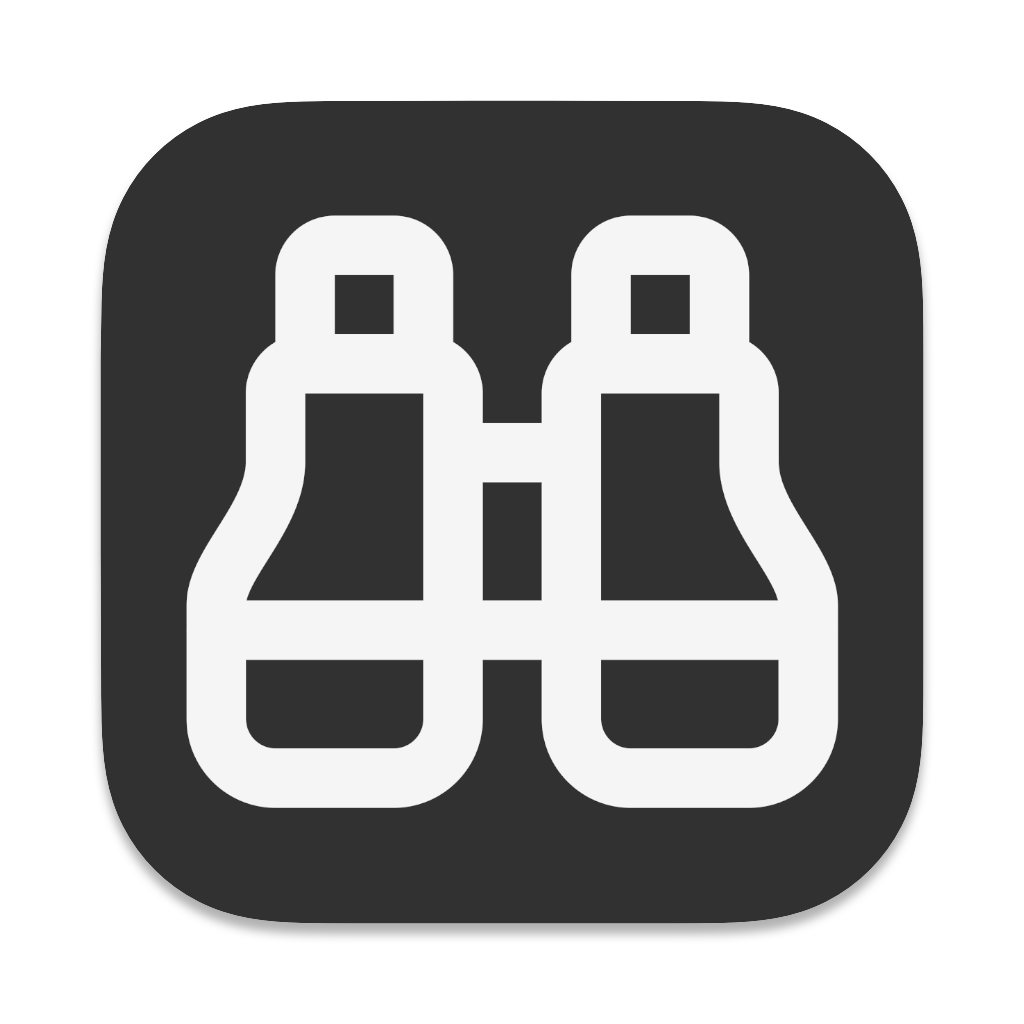
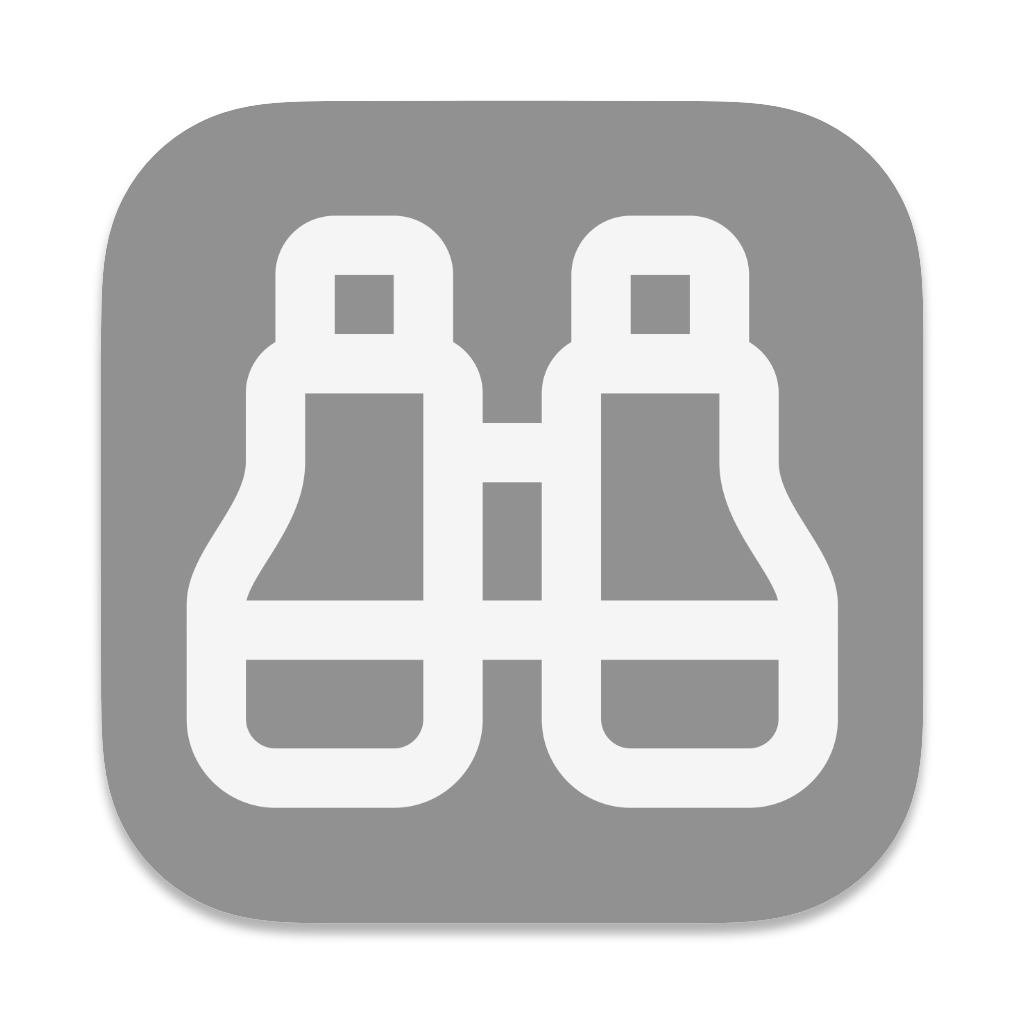
Add theme system with noVNC, noVNC-ARD, and noARD themes
URL param ?theme= selects visual branding (default: novnc).
Theme controls CSS accent colors, logo, favicon, and title
while all ARD protocol features remain available in every theme.

diff --git a/ard.html b/ard.html
@@ -7,6 +7,7 @@
     Uses upstream noVNC as an untouched submodule; ARD extensions
     are applied via monkey-patching in ard/ard-patch.js.
     -->
+    <meta charset="utf-8">
     <title>noVNC-ARD</title>
 
     <link rel="icon" type="image/x-icon" href="ard/images/noARD.ico">
@@ -84,6 +85,67 @@
         const showArdQuality       = _ardToggle('showArdQuality',       true);
         const showArdDisplaySelect = _ardToggle('showArdDisplaySelect', true);
         const ardAutoSelectDisplay = _ardToggle('ardAutoSelectDisplay', true);
+        // ── Theme system ──────────────────────────────────
+        // ?theme=novnc (default), ?theme=novnc-ard, ?theme=noard (case-insensitive)
+        const _ardThemes = {
+            'novnc-ard': {
+                title: 'noVNC-ARD',
+                favicon: 'ard/images/noARD.ico',
+                cssVars: {
+                    '--novnc-blue': 'rgb(130, 130, 130)',
+                    '--novnc-darkblue': 'rgb(100, 100, 100)',
+                },
+                cssClass: 'noVNC_theme_ard',
+                toolbarLogo: '<input type="image" alt="noVNC-ARD" src="ard/images/binoculars.svg"'
+                    + ' class="noVNC_button" id="noVNC_ard_logo"'
+                    + ' style="pointer-events:none; opacity:0.8; padding:4px;'
+                    + ' background-color:rgb(145,145,145); border-radius:6px">',
+                connectLogo: '<span>n<i class="noVNC_logo_o">'
+                    + '<img alt="" src="ard/images/binoculars.svg"></i></span>VNC',
+                connectButtonHTML: 'Connect',
+            },
+            'noard': {
+                title: 'noARD',
+                favicon: 'ard/images/noARD.ico',
+                cssVars: {
+                    '--novnc-blue': 'rgb(130, 130, 130)',
+                    '--novnc-darkblue': 'rgb(100, 100, 100)',
+                },
+                cssClass: 'noVNC_theme_ard',
+                toolbarLogo: '<input type="image" alt="noARD" src="ard/images/binoculars.svg"'
+                    + ' class="noVNC_button" id="noVNC_ard_logo"'
+                    + ' style="pointer-events:none; padding:4px;'
+                    + ' background-color:rgb(145,145,145); border-radius:6px">',
+                connectLogo: '<span style="margin-right:5px">n<i class="noVNC_logo_o">'
+                    + '<img alt="" src="ard/images/binoculars.svg"></i></span>'
+                    + '<span style="color:rgb(227,227,227)">ARD</span>',
+                connectButtonHTML: 'Connect',
+            },
+            'novnc': {
+                title: 'noVNC',
+                favicon: 'noVNC/app/images/icons/novnc.ico',
+                cssVars: {},
+                cssClass: 'noVNC_theme_classic',
+                toolbarLogo: '<h1 class="noVNC_logo" translate="no">'
+                    + '<span>no</span><br>VNC</h1>',
+                connectLogo: '<span>no</span>VNC',
+                connectButtonHTML: '<img alt="" src="noVNC/app/images/connect.svg"> Connect',
+            },
+        };
+        const _ardThemeName = (_ardUrlParams.get('theme') || 'novnc').toLowerCase();
+
+        function _ardApplyTheme(theme) {
+            document.documentElement.classList.add(theme.cssClass);
+            for (const [prop, val] of Object.entries(theme.cssVars))
+                document.documentElement.style.setProperty(prop, val);
+            document.title = theme.title;
+            document.querySelector('link[rel="icon"]').href = theme.favicon;
+            document.getElementById('noVNC_toolbar_logo_slot').innerHTML = theme.toolbarLogo;
+            document.getElementById('noVNC_connect_logo').innerHTML = theme.connectLogo;
+            document.getElementById('noVNC_connect_button').innerHTML = theme.connectButtonHTML;
+        }
+
+        _ardApplyTheme(_ardThemes[_ardThemeName] || _ardThemes['novnc']);
         // ────────────────────────────────────────────────────
 
         UI.start({ settings: { defaults: defaults,
@@ -839,7 +901,7 @@
 
             <div class="noVNC_scroll">
 
-            <h1 class="noVNC_logo" translate="no"><span>no</span><br>VNC</h1>
+            <div id="noVNC_toolbar_logo_slot"></div>
 
             <hr>
 
@@ -1168,11 +1230,9 @@
     <!-- Connect button -->
     <div class="noVNC_center">
         <div id="noVNC_connect_dlg">
-            <p class="noVNC_logo" translate="no"><span>no</span>VNC</p>
+            <p id="noVNC_connect_logo" class="noVNC_logo" translate="no"></p>
             <div>
-                <button id="noVNC_connect_button">
-                    Connect
-                </button>
+                <button id="noVNC_connect_button"></button>
             </div>
         </div>
     </div>

diff --git a/ard.css b/ard.css
@@ -1,11 +1,40 @@
 /* noVNC-ARD: Custom styles (Layer 2+) */
 
-/* Monochrome logo */
-.noVNC_logo {
+/* Hide exclusive control row when not connected */
+#noVNC_ard_exclusive_row.noVNC_hidden {
+    display: none !important;
+}
+
+/* ── ARD theme: monochrome branding ─────────────── */
+.noVNC_theme_ard {
+    --novnc-blue: rgb(130, 130, 130);
+    --novnc-darkblue: rgb(100, 100, 100);
+}
+.noVNC_theme_ard .noVNC_logo {
     color: rgba(255, 255, 255, 0.8);
 }
-.noVNC_logo span {
+.noVNC_theme_ard .noVNC_logo span {
     color: rgb(145, 145, 145);
+}
+/* Solid "o" replacing Orbitron's cut glyph */
+.noVNC_logo_o {
+    display: inline-block;
+    position: relative;
+    width: 0.58em;
+    height: 0.62em;
+    background: rgb(145, 145, 145);
+    border-radius: 0.12em;
+    vertical-align: baseline;
+    margin-left: 0.05em;
+    box-shadow: 0.1em 0.1em 0 black;
+}
+.noVNC_logo_o img {
+    position: absolute;
+    top: 50%;
+    left: 50%;
+    transform: translate(-50%, -50%);
+    width: 69%;
+    height: 69%;
 }
 
 /* Session Select Dialog — centered overlay, above transition screen (z-index 50) */
